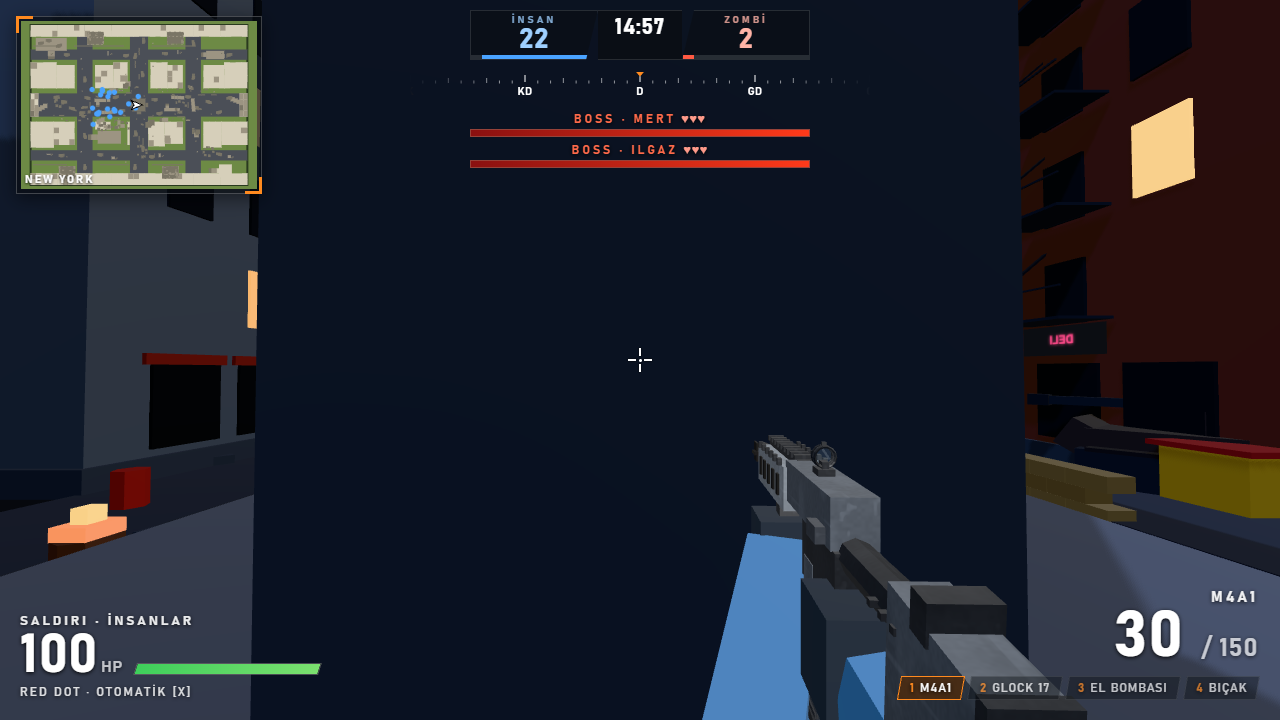
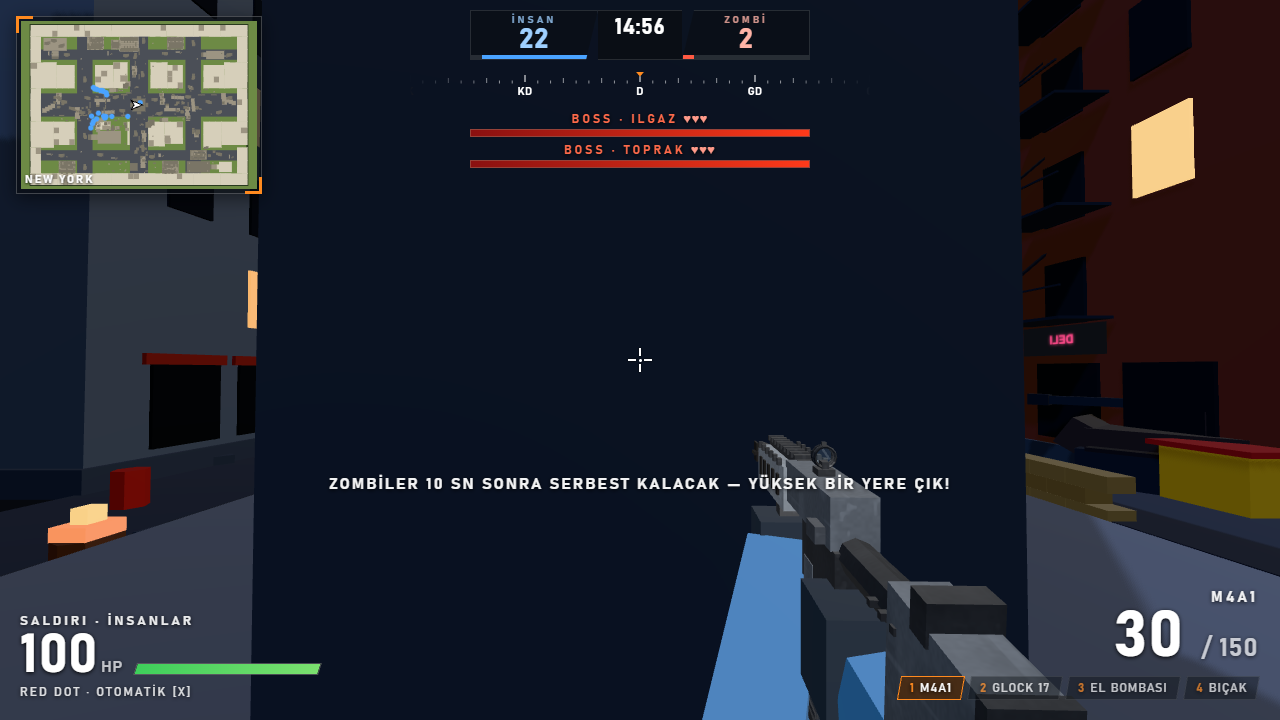
Enfekte: 14 sn hazırlık süresi, görüş dışı zombi doğma; New York: kapalı sınırlar, görüş kıran engeller, karakol, park, kilise, benzinlik

diff --git a/src/maps/newyork.js b/src/maps/newyork.js
@@ -150,9 +150,13 @@ export function buildNewYork() {
     for (let x = -84; x < 84; x += 21) tower(x, sg > 0 ? 53 : -62, x + 21, sg > 0 ? 62 : -53, 36 + rng() * 22, [sg > 0 ? 'n' : 's'], { brick: rng() < 0.5, sign: false });
   }
   // doğu-batı uç duvarları: cadde sonu devrik bina yığını
-  tower(-84, -9, -78, 9, 12, [], { ruin: true, color: '#555a60' }); tower(78, -9, 84, 9, 12, [], { ruin: true, color: '#555a60' });
+  tower(-84, -13, -76, 13, 50, ['e'], { color: '#5a6066' }); tower(76, -13, 84, 13, 50, ['w'], { color: '#5a6066' });                  // Broadway uç kapakları (cadde bina duvarıyla biter)
+  for (const sg of [-1, 1]) {                                                                                                           // doğu-batı kenarlar: kesintisiz bina duvarı (harita sonu görünmez)
+    for (const [z0, z1] of [[-53, -33], [33, 53]]) { tower(-84, z0, -76, z1, 44 + rng() * 14, ['e'], { brick: rng() < 0.5 }); tower(76, z0, 84, z1, 44 + rng() * 14, ['w'], { brick: rng() < 0.5 }); }
+    break;
+  }
   // Broadway uçlarına devrik otobüs/barikat
-  K.bus(b, { x: -76, z: 2.5, ry: 0.5, wreck: true }); K.bus(b, { x: 76, z: -3, ry: Math.PI - 0.4, wreck: true });
+  K.bus(b, { x: -70, z: 2.5, ry: 0.5, wreck: true }); K.bus(b, { x: 70, z: -3, ry: Math.PI - 0.4, wreck: true });
 
   // ───────── MERKEZ MEYDANI: anıt (1.4 m) ─────────
   plat(b, -5, -5, 5, 5, 0, 1.4, '#7c8085');
@@ -192,17 +196,17 @@ export function buildNewYork() {
   };
   subway(19, 9.8, 1); subway(-23, -13.2, -1);
   // ───────── otopark (3.2 m) – kuzeybatı arkası ─────────
-  plat(b, -80, -52, -56, -42, 0, 3.2, '#5a5e63');
-  b.stairs(-68, -35, 0, '-z', 5, 14, 0.2286, 0.5, '#6a6e72', { deco: false, tag: 'plat' });
-  b.box(-68, 3.2, -42.1, 24, 1.0, 0.25, '#44484d', NC); b.box(-80, 3.2, -47, 0.25, 1.0, 10, '#44484d', NC);
-  b.with(0, 3.2, 0, 0, () => { for (const [x, z, ry] of [[-76, -48, 0.1], [-70, -50, -0.1], [-62, -46, 0.3]]) K.car(b, { x, z, ry, color: '#3a3f45', wreck: true }); });
-  perch(-68, -47, 3.2, 8, 6);
+  plat(b, -74, -52, -56, -42, 0, 3.2, '#5a5e63');
+  b.stairs(-65, -35, 0, '-z', 5, 14, 0.2286, 0.5, '#6a6e72', { deco: false, tag: 'plat' });
+  b.box(-65, 3.2, -42.1, 18, 1.0, 0.25, '#44484d', NC); b.box(-74, 3.2, -47, 0.25, 1.0, 10, '#44484d', NC);
+  b.with(0, 3.2, 0, 0, () => { for (const [x, z, ry] of [[-71, -48, 0.1], [-66, -50, -0.1], [-60, -46, 0.3]]) K.car(b, { x, z, ry, color: '#3a3f45', wreck: true }); });
+  perch(-65, -47, 3.2, 7, 6);
   // ───────── inşaat iskelesi (5.0 m) – güneydoğu arkası ─────────
-  plat(b, 62, 46, 72, 56, 0, 5.0, '#6a5c3a');
-  b.stairs(53.6, 51, 0, '+x', 3.4, 20, 0.25, 0.42, '#7a7e82', { deco: false, tag: 'plat' });
-  for (const [x, z] of [[62, 46], [72, 46], [62, 56], [72, 56]]) b.box(x, 5.0, z, 0.2, 1.1, 0.2, '#383b3e', NC);
-  b.box(67, 5.0, 51, 1.2, 9, 1.2, '#c9a227', NC); b.box(67, 12.5, 51, 14, 0.5, 0.5, '#c9a227', NC);                             // vinç gövdesi + kolu
-  perch(67, 51, 5.0, 4, 3);
+  plat(b, 62, 44, 72, 52, 0, 5.0, '#6a5c3a');
+  b.stairs(53.6, 48, 0, '+x', 3.4, 20, 0.25, 0.42, '#7a7e82', { deco: false, tag: 'plat' });
+  for (const [x, z] of [[62, 44], [72, 44], [62, 52], [72, 52]]) b.box(x, 5.0, z, 0.2, 1.1, 0.2, '#383b3e', NC);
+  b.box(67, 5.0, 48, 1.2, 9, 1.2, '#c9a227', NC); b.box(67, 12.5, 48, 14, 0.5, 0.5, '#c9a227', NC);                             // vinç gövdesi + kolu
+  perch(67, 48, 5.0, 4, 3);
   // ───────── kuzey-doğu: market arkası alçak çatı (3.0 m) ─────────
   plat(b, 52, -42, 66, -35.5, 0, 3.0, '#7a6a5a');
   b.stairs(47.8, -39, 0, '+x', 3, 12, 0.25, 0.35, '#7a7e82', { deco: false, tag: 'plat' });
@@ -233,6 +237,23 @@ export function buildNewYork() {
   M.ambulance(b, { x: -30, z: 12, ry: 0.4, wreck: true }); M.jeep(b, { x: 40, z: -13.5, ry: 2.6, wreck: true });
   M.helicopter(b, { x: 22, z: 26, ry: 0.9 });                                            // düşmüş helikopter (güney B arsa karşısı)
   b.flushVehicles();
+  // ───────── Broadway'i bölen engeller: görüş hatlarını kırar (uzaktan nişan yok, doğar doğmaz ateş yok) ─────────
+  const rubbleWall = (x, z0, z1, h = 3.0) => { for (let z = z0; z < z1; z += 2.1) { const hh = h * (0.75 + rng() * 0.4), w = 2.4 + rng() * 1.6; b.box(x + (rng() - 0.5) * 1.2, 0, z + 1, w, hh, 2.4, rng() < 0.5 ? CONC_D : '#5a463c', { ry: (rng() - 0.5) * 0.4 }); if (rng() < 0.6) b.box(x + (rng() - 0.5) * 1.5, hh, z + 1, 1.4, 0.8, 1.4, '#4a4036', { ry: rng() * 3 }); } };
+  rubbleWall(-62, -9, -2); rubbleWall(-48, 2, 9); rubbleWall(18, -9, -2); rubbleWall(38, 2, 9); rubbleWall(66, -9, -2);
+  rubbleWall(0 + 3.5, 20, 27); rubbleWall(-3.5, -30, -23); rubbleWall(3.5, 40, 47); rubbleWall(-3.5, -52, -46);                      // 5. cadde kırılımları
+  // başlangıç karakolu (insan doğma alanı): hesco duvarları, kum torbaları, çadır, lambalar
+  M.hesco(b, -27, -6.5, 5, Math.PI / 2); M.hesco(b, -27, 4.5, 5, Math.PI / 2); M.hesco(b, -11.5, -8, 5, 0); M.hesco(b, -11.5, 8, 5, 0);
+  for (const [x, z] of [[-26, -2], [-26, 1.5], [-12, -6], [-12, 6]]) K.sandbags(b, x, z, 3, Math.PI / 2);
+  M.floodLight(b, -26, 3, -8, 0); M.floodLight(b, -26, 3, 8, 0);
+  K.crate(b, -24, -7.5, 1.2); K.crate(b, -22.8, -7.7, 1.0); K.barrel(b, -21, -7.6); K.crate(b, -24, 7.6, 1.2); K.crate(b, -22.6, 7.8, 1.0); K.barrel(b, -21.2, 7.7, '#2c5aa0');
+  // park (arka güney): ölü ağaçlar, bankalar, çeşme
+  T.fountain(b, { x: -4, z: 48, r: 3 });
+  for (let i = 0; i < 12; i++) { const x = -26 + rng() * 40, z = 44 + rng() * 8; if (Math.hypot(x + 4, z - 48) < 5) continue; b.cyl(x, 0, z, 0.18, 0.28, 3.5 + rng() * 2.2, '#2f2a26', { seg: 6 }); for (let k = 0; k < 4; k++) b.box(x + (rng() - 0.5) * 1.6, 3.2 + rng() * 2.2, z + (rng() - 0.5) * 1.6, 0.12, 1.2 + rng(), 0.12, '#2f2a26', { collide: false, rz: (rng() - 0.5) * 1.2 }); }
+  for (const [x, z, ry] of [[-14, 45, 0], [6, 51, Math.PI], [-20, 51, Math.PI], [12, 45, 0]]) K.bench(b, x, z, ry);
+  K.lamp(b, -10, 44); K.lamp(b, 4, 52);
+  // kilise (arka kuzey) ve benzinlik (arka güneydoğu)
+  K.church(b, rng, { x: -8, z: -47, w: 10, d: 14, ry: Math.PI / 2 });
+  K.gasStation(b, rng, { x: 46, z: 48, store: 'n' });
   // ───────── krater halkaları ─────────
   const crater = (x, z, r) => { b.cyl(x, 0.05, z, r, r, 0.06, '#0b0c0e', { seg: 14, collide: false }); b.cyl(x, 0.08, z, r * 0.55, r * 0.55, 0.06, '#050506', { seg: 12, collide: false });
     for (let i = 0; i < 12; i++) { const a = (i / 12) * 6.28 + rng(), rr = r * (0.95 + rng() * 0.3); b.box(x + Math.cos(a) * rr, 0, z + Math.sin(a) * rr, 0.7 + rng() * 1.3, 0.35 + rng() * 0.7, 0.7 + rng() * 1.2, rng() < 0.5 ? CONC_D : '#4a3a30', { ry: rng() * 3 }); } };
@@ -251,12 +272,11 @@ export function buildNewYork() {
   for (const [x, z] of [[-70, 38], [-20, 41], [16, 39], [70, 40], [-70, -40], [-24, -40], [30, -41], [66, -38]]) { T.palletWall(b, rng, x, z, rng() * 3, 3); K.barrel(b, x + 2, z + 0.8, '#2c5aa0'); K.barrel(b, x + 2.8, z + 0.2); }
   M.fireBarrel(b, -66, 8); M.fireBarrel(b, -20, 4); M.fireBarrel(b, 4, -7); M.fireBarrel(b, 28, 7); M.fireBarrel(b, 56, 7); M.fireBarrel(b, -4, 24); M.fireBarrel(b, 5, -32); M.fireBarrel(b, 44, 28); M.fireBarrel(b, -44, -28); M.fireBarrel(b, 64, -40); M.fireBarrel(b, -56, 40); M.fireBarrel(b, 12, 38);
   // arka sokaklarda ek tahta çitler, kaçak barakalar
-  for (const [x0, z0, x1, z1] of [[-82, 46, -56, 46], [-30, 46, -8, 46], [10, 46, 34, 46], [-82, -46, -62, -46], [-50, -46, -12, -46], [10, -46, 44, -46]]) K.fence(b, x0, z0, x1, z1, 1.4);
   // ───────── girilebilir dükkânlar (arka sokak) ─────────
-  K.house(b, rng, { x: -56, z: 52, w: 12, d: 9, floors: 1, door: 'n', wall: '#8a8d90', roof: '#4a4e52', flat: true, theme: 'shop', glow: 0.35 });
-  K.house(b, rng, { x: 24, z: 52, w: 12, d: 9, floors: 2, door: 'n', wall: '#7a5a4a', roof: '#4a4440', flat: true, theme: 'shop', glow: 0.35 });
-  K.house(b, rng, { x: -34, z: -52, w: 12, d: 9, floors: 2, door: 's', wall: '#8a8d90', roof: '#4a4e52', flat: true, theme: 'office', glow: 0.35 });
-  K.house(b, rng, { x: 28, z: -52, w: 12, d: 9, floors: 1, door: 's', wall: '#74503f', roof: '#4a4440', flat: true, theme: 'garage', glow: 0.3 });
+  K.house(b, rng, { x: -56, z: 48, w: 12, d: 9, floors: 1, door: 'n', wall: '#8a8d90', roof: '#4a4e52', flat: true, theme: 'shop', glow: 0.35 });
+  K.house(b, rng, { x: 24, z: 48, w: 12, d: 9, floors: 2, door: 'n', wall: '#7a5a4a', roof: '#4a4440', flat: true, theme: 'shop', glow: 0.35 });
+  K.house(b, rng, { x: -34, z: -48, w: 12, d: 9, floors: 2, door: 's', wall: '#8a8d90', roof: '#4a4e52', flat: true, theme: 'office', glow: 0.35 });
+  K.house(b, rng, { x: 28, z: -48, w: 12, d: 9, floors: 1, door: 's', wall: '#74503f', roof: '#4a4440', flat: true, theme: 'garage', glow: 0.3 });
   // ───────── uzak silüet: şehir ufku (çarpışmasız, boşluk hissini bitirir) ─────────
   for (let i = 0; i < 38; i++) {
     const side = i % 4, t = (i / 38) * 2 - 1;
@@ -269,7 +289,7 @@ export function buildNewYork() {
   // ───────── doğuş ─────────
   const spawns = { blue: [], red: [] };
   for (let i = 0; i < 24; i++) spawns.blue.push({ x: -23 + (i % 6) * 2.6, z: -5 + Math.floor(i / 6) * 3.2, ry: -Math.PI / 2 });          // meydanın batısı: anıta ve kamyonlara yakın
-  for (let i = 0; i < 24; i++) { const side = i % 2 ? 1 : -1; spawns.red.push({ x: side * 79, z: -6 + Math.floor(i / 2) * 1.0, ry: side > 0 ? Math.PI / 2 : -Math.PI / 2 }); }
+  for (let i = 0; i < 24; i++) { if (i % 2) spawns.red.push({ x: 58 + (i >> 1) % 7 * 3, z: -50 + ((i >> 1) / 7 | 0) * 3, ry: Math.PI }); else spawns.red.push({ x: -80 + (i >> 1) % 6 * 2.4, z: 44 + ((i >> 1) / 6 | 0) * 3, ry: 0 }); }     // bosslar arka arsalardan (insanların görüşünün dışında) başlar
   const objectives = [{ id: 'merkez', name: 'Merkez', core: true, x: 0, z: 0, r: 8 }];
 
   const group = b.build();

diff --git a/src/game/game.js b/src/game/game.js
@@ -325,6 +325,13 @@ export class Game {
     if (s.isPlayer && !this.headless) this.hud.toast(wasBoss ? 'BOSS DEVRİLDİ — insan oldun' : 'İYİLEŞTİN — yeniden insansın', '#7ec8ff');
   }
 
+  // Hazırlık süresi: Enfekte maçın ilk ZOMBIE.grace saniyesinde zombiler hareket/saldırı/güç kullanamaz ve hasar almaz (insanlar yüksek yere çıkar).
+  // timeLeft sunucudan senkron geldiği için istemcide de aynı sonucu verir. Süresiz maçta hazırlık yok.
+  get graceLeft() {
+    if (!this.mode.infection || !Number.isFinite(this.timeLeft) || !this.mode.time) return 0;
+    return Math.max(0, ZOMBIE.grace - (this.mode.time - this.timeLeft));
+  }
+
   // İnsan ve zombi sayıları: ölü ama henüz enfekte olmamış insan zombi sayılır; can hakkı biten ölü zombi insan sayılır
   infCounts() {
     let h = 0, z = 0;
@@ -340,12 +347,15 @@ export class Game {
     const humans = this.soldiers.filter((e) => e.alive && e.team === 'blue');
     const pts = first || !humans.length ? this.map.spawns.red : this.infPool;
     let best = null, bs = -1e9;
-    for (let k = 0; k < 18; k++) {
+    const eyeP = new THREE.Vector3(), tgtP = new THREE.Vector3();
+    for (let k = 0; k < 30; k++) {
       const p = pick(pts);
       if (this.soldiers.some((e) => e !== s && e.alive && Math.hypot(e.pos.x - p.x, e.pos.z - p.z) < 1.3)) continue;
       let dmin = 1e9;
       for (const e of humans) dmin = Math.min(dmin, Math.hypot(e.pos.x - p.x, e.pos.z - p.z));
-      const sc = dmin >= 38 ? 200 - dmin + Math.random() * 25 : dmin - 400;        // yeterince uzak olanlardan en yakını; hiçbiri değilse en uzak
+      let seen = false;                                                          // hiçbir insanın görüşünde doğmasın (doğar doğmaz vurulmasın)
+      if (!first) for (const e of humans) { if (Math.hypot(e.pos.x - p.x, e.pos.z - p.z) < 75 && this.losClear(e.eye(eyeP), tgtP.set(p.x, (p.y || 0) + 1.2, p.z))) { seen = true; break; } }
+      const sc = (dmin >= 38 ? 200 - dmin + Math.random() * 25 : dmin - 400) - (seen ? 500 : 0);        // yeterince uzak + görünmeyen olanlardan en yakını
       if (sc > bs) { bs = sc; best = p; }
     }
     const p = best || pick(pts), tgt = humans.length ? pick(humans).pos : { x: p.x, z: p.z - 1 };

diff --git a/src/game/soldier.js b/src/game/soldier.js
@@ -79,7 +79,7 @@ export class Soldier {
 
   // Özel güç (F / sağ tık). Sunucu da istemci de (çevrimdışı) aynı kodu çalıştırır. Döner: kullanıldı mı
   useAbility() {
-    if (!this.alive || !this.def.zombie || this.abT > 0 || this.game.ended) return false;
+    if (!this.alive || !this.def.zombie || this.abT > 0 || this.game.ended || this.game.graceLeft > 0) return false;
     const ab = this.zt.ability, from = this.pos.clone();
     if ((ab.id === 'blink' || ab.id === 'shadow') && !this._blink(ab.range)) { this.abT = 0.8; return false; }
     this.abT = ab.cd; this.abActive = ab.dur;
@@ -252,6 +252,7 @@ export class Soldier {
 
   tryFire() {
     if (!this.alive || this.cd > 0 || this.switchT > 0 || this.useT > 0) return false;
+    if (this.def.zombie && this.game.graceLeft > 0) return false;                     // Enfekte hazırlık süresi
     if (this.reloadT > 0 && !this.cancelShellReload()) return false;
     const it = this.item, st = this.stat;
     if (st.kind === 'melee') return this._melee(st);
@@ -485,6 +486,7 @@ export class Soldier {
 
   takeDamage(amount, attacker, zone, fromPos, weaponName) {
     if (!this.alive || this.protT > 0) return;
+    if (this.def.zombie && this.game.graceLeft > 0) return;                            // hazırlık süresinde zombiler dokunulmaz
     if (this.def.zombie) {
       if (this.boss) amount *= BOSS.armor;                                                              // boss hasarın %30'unu yok sayar
       if (this.abActive > 0) { const a = this.zt.ability.id; if (a === 'shield') amount *= 0.3; else if (a === 'cloak' || a === 'shadow') this.abActive = 0; }

diff --git a/src/sim/input.js b/src/sim/input.js
@@ -13,6 +13,7 @@ export function applyInput(s, input, dt) {
   s.sprinting = wantSprint;                     // yüklerken de koşulabilir
   if (s.sprinting) { s.crouching = false; if (s.prone) s.prone = false; }
   let spd = WALK_SPEED * s.spd * (st.move || 1);
+  if (s.def.zombie && s.game.graceLeft > 0) spd = 0;                  // Enfekte hazırlık süresinde zombiler yerinde bekler
   if (s.sprinting) spd *= 1.5;
   if (s.crouching) spd *= 0.52;
   if (s.prone) spd *= 0.27;
@@ -25,5 +26,5 @@ export function applyInput(s, input, dt) {
   const a = 1 - Math.exp(-acc * dt);
   s.vel.x += (wx - s.vel.x) * a;
   s.vel.z += (wz - s.vel.z) * a;
-  if (input.jump && s.onGround && !s.prone && !s.crouching) { s.vel.y = JUMP_SPEED * (s.jumpMul || 1); s.onGround = false; }
+  if (input.jump && !(s.def.zombie && s.game.graceLeft > 0) && s.onGround && !s.prone && !s.crouching) { s.vel.y = JUMP_SPEED * (s.jumpMul || 1); s.onGround = false; }
 }

diff --git a/src/game/bot.js b/src/game/bot.js
@@ -239,7 +239,7 @@ export class BotBrain {
     const tg = this.target && this.target.alive ? this.target : null;
     let moveX = 0, moveZ = 0, speed = 4.4 * s.spd * (s.stat.move || 1);
     s.ads = false; s.crouching = false; s.botExtraSpread = 0;
-    if (s.blindT > 0) { s.yaw += Math.sin(this.t * 2.2 + s.id) * dt * 1.4; s.vel.x *= 0.85; s.vel.z *= 0.85; return; }
+    if (s.blindT > 0 || g.graceLeft > 0) { if (s.blindT > 0) s.yaw += Math.sin(this.t * 2.2 + s.id) * dt * 1.4; s.vel.x *= 0.5; s.vel.z *= 0.5; return; }       // kör ya da hazırlık süresi: bekle
     if (tg) {
       const dx = tg.pos.x - s.pos.x, dz = tg.pos.z - s.pos.z, dist = Math.hypot(dx, dz);
       const eye = s.eye(tA), tc = tg.center(tC);

diff --git a/src/game/hud.js b/src/game/hud.js
@@ -560,6 +560,7 @@ export class Hud {
       if (!msg && p.stat.kind === 'medkit' && p.item.mag > 0 && g.findRevivable(p)) msg = 'Canlandır · sol tık';
       if (!msg && p.item.mag <= 0 && p.stat.kind === 'gun') msg = p.item.reserve > 0 ? 'ŞARJÖR BOŞ · R ile doldur' : 'ŞARJÖR BOŞ · mermi kalmadı!';
     }
+    if (g.mode.infection && g.graceLeft > 0) msg = p.def.zombie ? `Hazırlan! Serbest kalmana ${Math.ceil(g.graceLeft)} sn` : `Zombiler ${Math.ceil(g.graceLeft)} sn sonra serbest kalacak — yüksek bir yere çık!`;
     $('msg').textContent = msg;
     if (this.sbShown) this.renderScoreboard();
     this.drawMinimap();

diff --git a/src/game/stats.js b/src/game/stats.js
@@ -9,6 +9,7 @@ export const TAC_RELOAD = 0.65;
 // Enfekte modu (zombi) denge değerleri — tek yerden ayarlanır
 export const ZOMBIE = {
   respawn: 6,         // sn: zombi öldüğünde yeniden doğma süresi
+  grace: 14,          // sn: maç başında zombiler donuk (insanlar yüksek bir yere çıkar)
   lives: 1,           // normal zombi: bu kadar kez ölünce insana döner
   bossCount: [1, 2],  // 16 kişiden azsa 1, 16 ve üstüyse 2 boss
   bossSplit: 16,

diff --git a/OYUN.md b/OYUN.md
@@ -654,3 +654,8 @@ Sunucu optimizasyonu: harita odalar arasında paylaşılır (`Game._mapCache`, D
 - **Navigasyon:** `NavGrid(..., layered)` — `plat` etiketli kutular hücre başına zemin yüksekliği (`floor`) verir (hücreden dar basamaklar da en az 1 hücre sayılır); yol bulma yalnızca |Δzemin| ≤ `maxStep` komşulara geçer (insan 0.7, zombi 1.15 = sıçrayarak). `nav.floorAt()`. Diğer haritalar etkilenmez. **Kural:** basamak yüksekliği ≤ 0.3, derinlik ≥ 0.35; merdivenin son basamağı platform kenarına tam oturmalı.
 - **Bot davranışı:** insan botlar `huddle()` ile en uygun perch'i seçer (yükseklik, doluluk `cap`, zombi baskısı), merdivenden çıkar, yukarıda geri çekilmez ve yüksekten ateş eder; zombi botlar yüksekteki hedefe rampa/basamaktan çıkar, önündeki ≥0.5 m basamakta ve hedef platformdaysa sıçrayarak vurur. Zombi doğma havuzu yalnızca zemin kattan.
 - Test: `scripts/newyorkshots.mjs`, `newyorkbots.mjs`, `newyorkthumb.mjs`, `infbotcheck.mjs`, `infmatrix.mjs` (`MAPS=newyork`).
+
+### 12.29 Enfekte açılış: hazırlık süresi, görünmez doğma, New York ikinci geçiş
+- **Hazırlık süresi (`ZOMBIE.grace` = 14 sn):** maçın ilk 14 saniyesinde zombiler/bosslar hareket edemez, saldırmaz, güç kullanamaz, hasar almaz (`Game.graceLeft`; `timeLeft` snapshot'tan geldiği için istemci de aynı hesaplar). Ekranda "Zombiler n sn sonra serbest kalacak — yüksek bir yere çık!". Süresiz maçta yok.
+- **Görünmez doğma:** zombi doğma noktası seçerken insanların görüşünde (≤75 m, LOS) olanlar elenir (30 aday); bosslar haritanın arka arsalarından başlar. Test: `scripts/infstart.mjs` (ilk 14 sn insan atışı 0, görüşte doğma %0).
+- **New York:** Broadway ve doğu-batı kenarları kesintisiz bina duvarıyla kapandı (harita sonu görünmez), Broadway'e görüş kıran moloz/otobüs engelleri, doğma karakolu (hesco, kum torbası, ışıklar), park, kilise, benzinlik; inşaat iskelesi ve otopark yeniden konumlandı.
